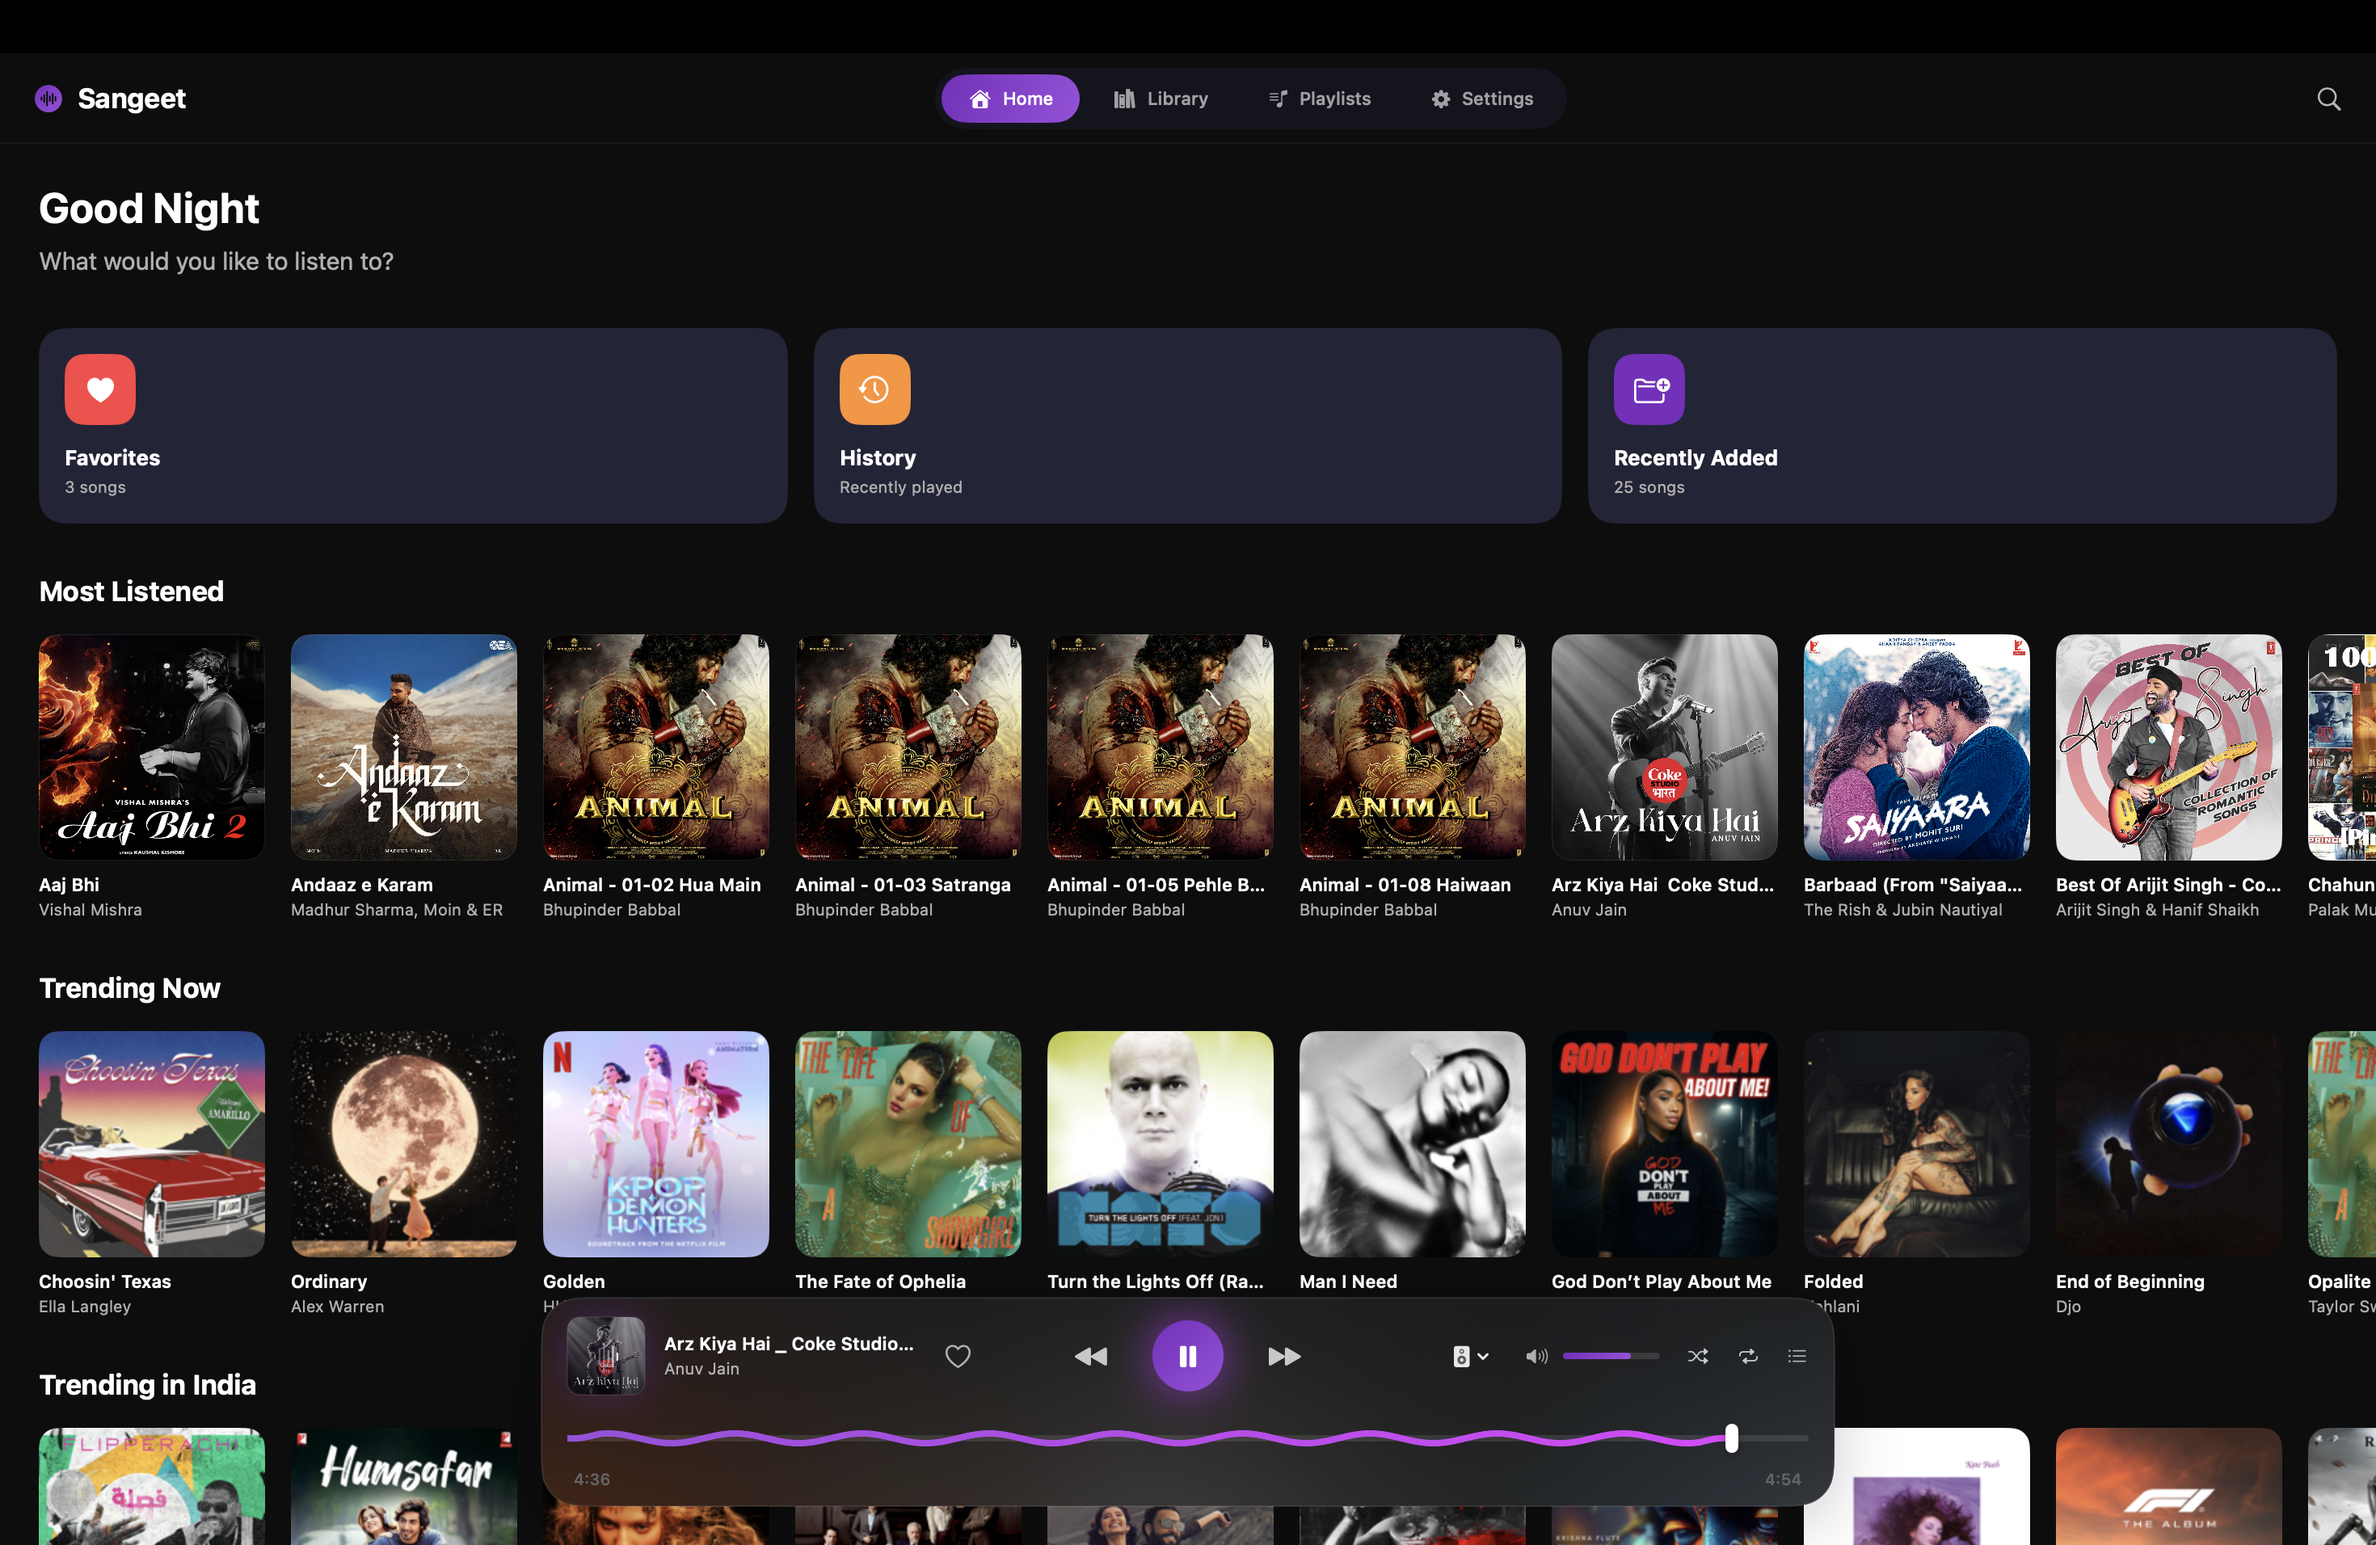
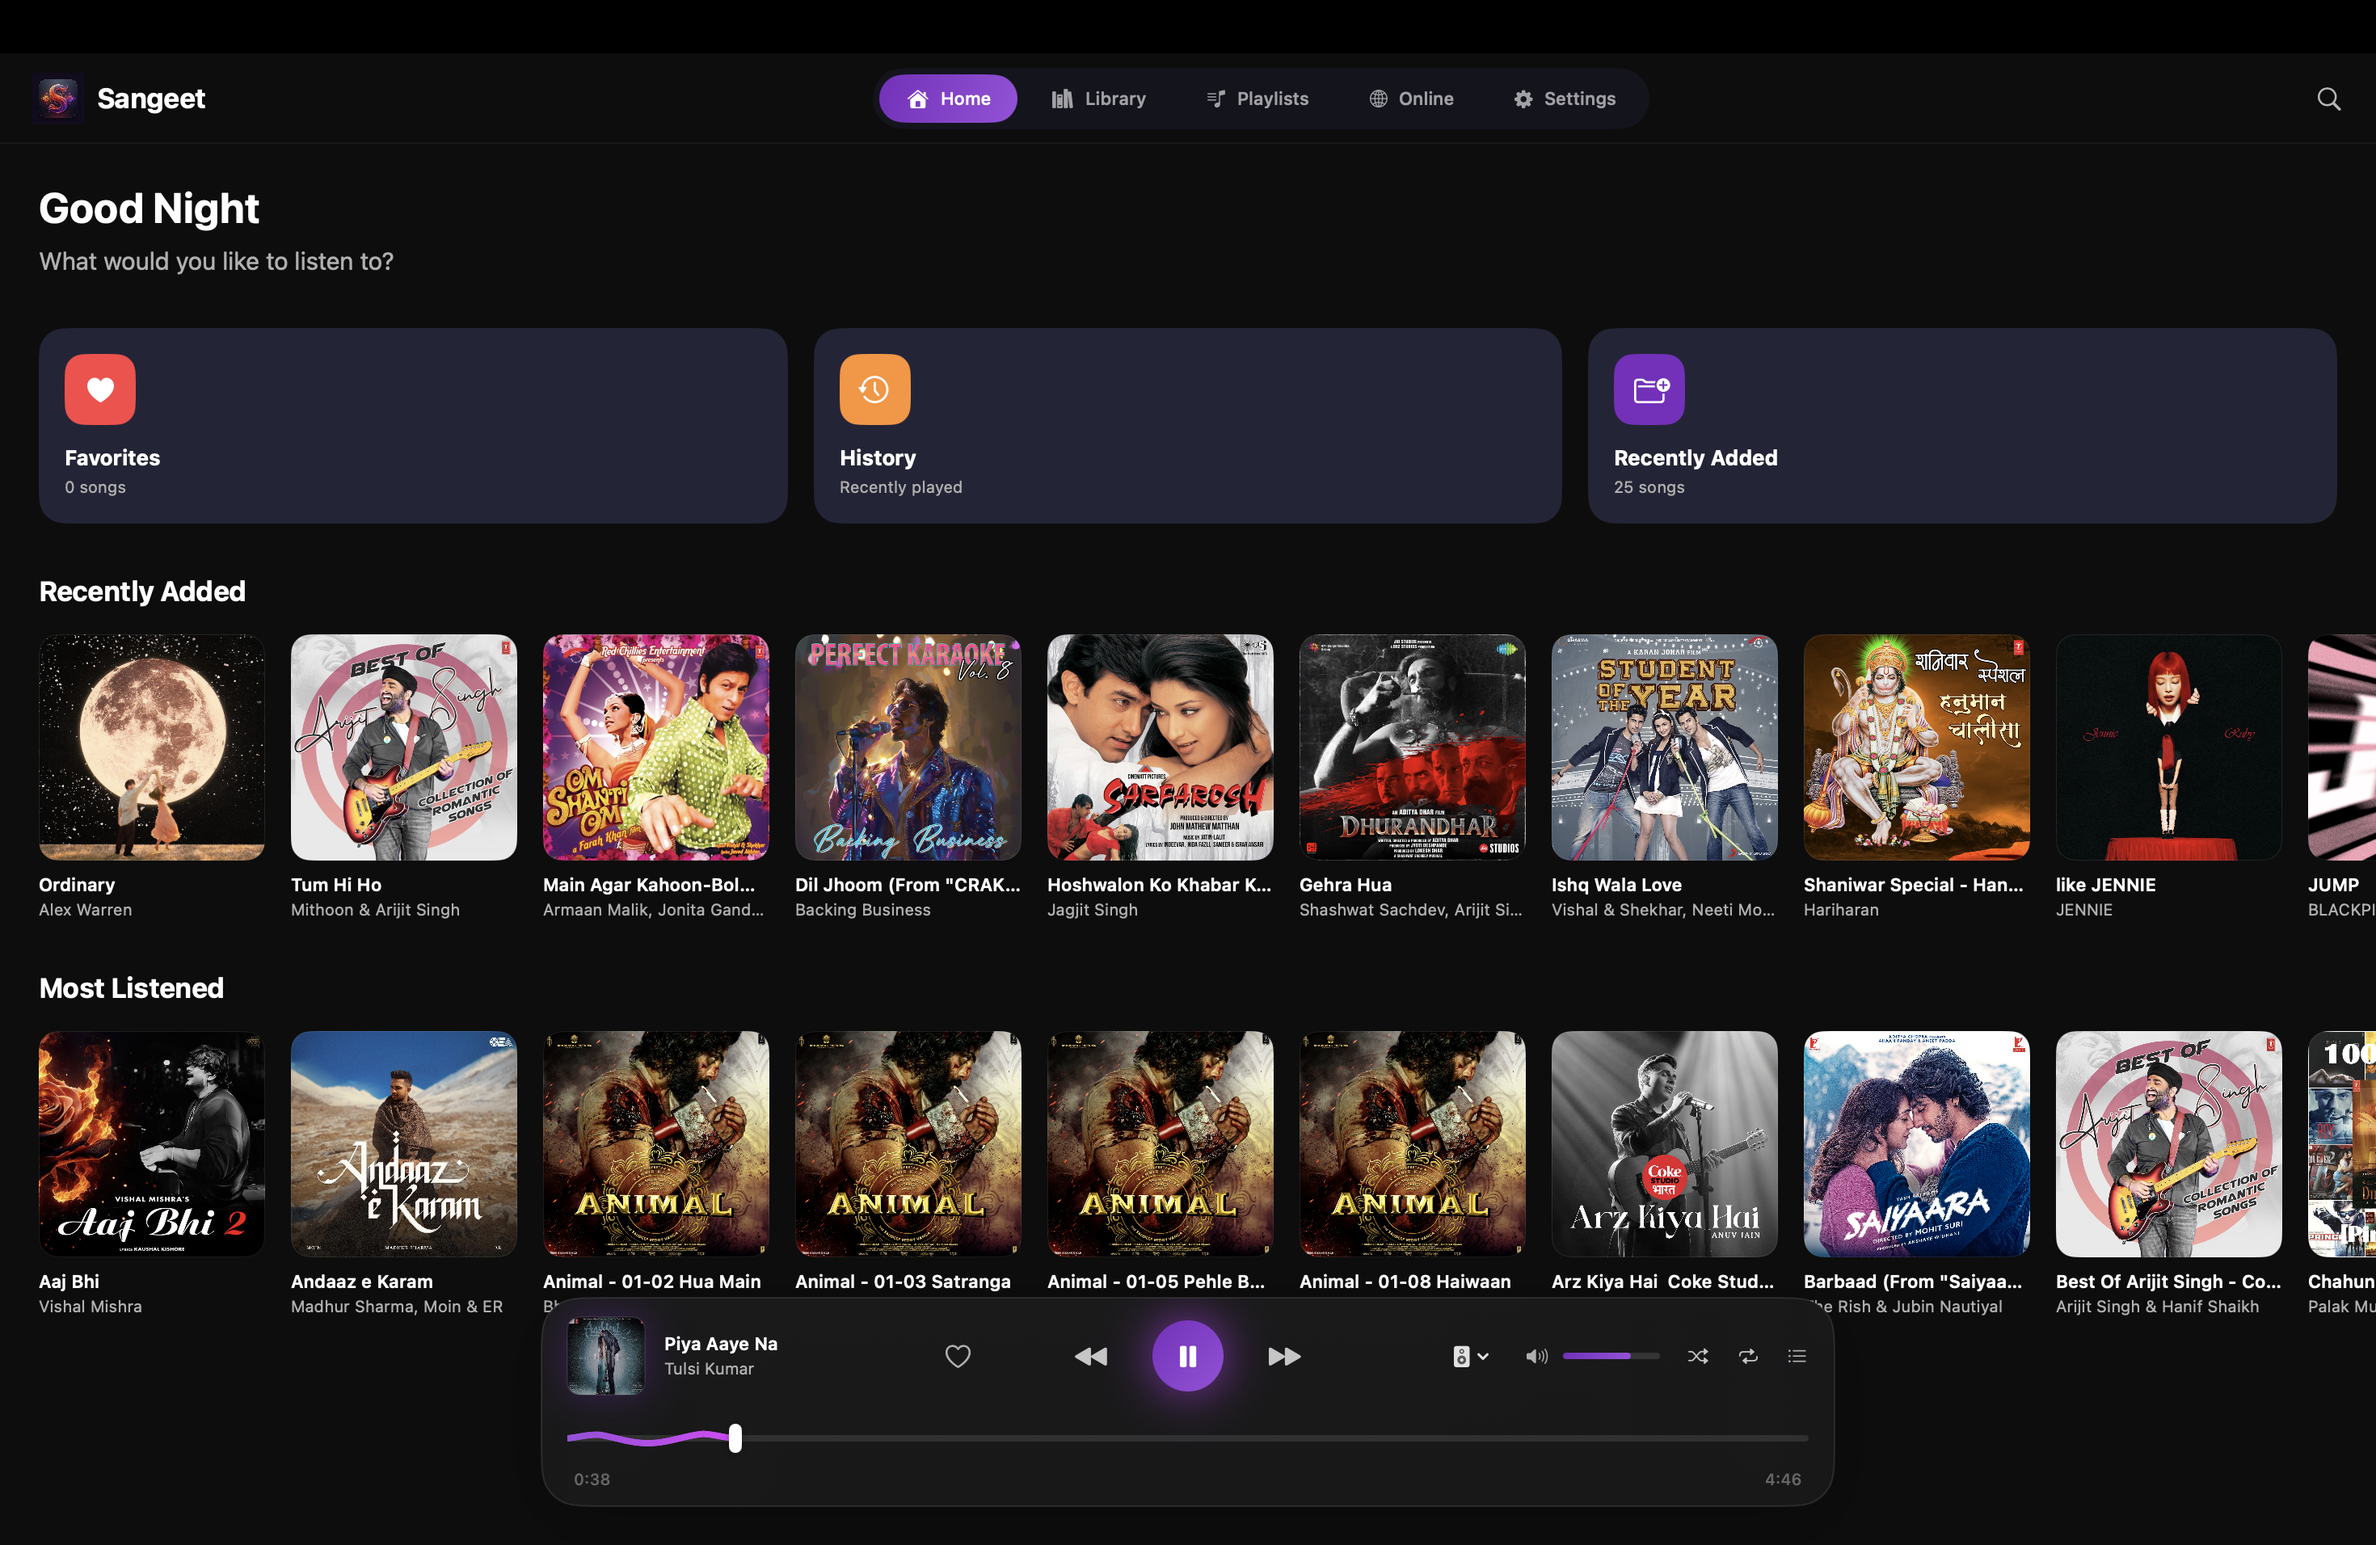
Add Online streaming feature and update screenshots

diff --git a/README.md b/README.md
@@ -31,6 +31,12 @@ Sangeet is a premium, native macOS music player built for audiophiles who demand
 - **Infinite Queue**: Never stops playing music, automatically queuing similar tracks when your playlist ends.
 - **Stats & History**: Track your listening habits with detailed statistics.
 
+### 🌐 Online Streaming
+- **Tidal Integration**: Search and stream high-quality music from Tidal's catalog directly within the app.
+- **Trending Charts**: Browse trending songs from iTunes charts (International & India).
+- **Download Support**: Save online tracks to your local library for offline playback.
+- **Seamless Playback**: Stream with the same audiophile-grade engine as local files.
+
 ---
 
 ## 📸 Screenshots
@@ -43,9 +49,10 @@ Sangeet is a premium, native macOS music player built for audiophiles who demand
 |:---:|:---:|
 | ![Songs](Screenshots/songs_screen.png) <br> ![Playlists](Screenshots/playlists_screen.png) | ![Queue](Screenshots/queue_screen.png) <br> ![EQ](Screenshots/eq_screen.png) |
 
-| Artist Grid & Metadata | Settings & Mini Player |
+| Online Streaming | Settings & Extras |
 |:---:|:---:|
-| ![Artist Grid](Screenshots/artist_grid.png) <br> ![Metadata](Screenshots/metadata.png) | ![Settings](Screenshots/settings.png) <br> *(Floating Dock)* |
+| ![Online](Screenshots/online.png) | ![Settings](Screenshots/settings.png) <br> ![Metadata](Screenshots/metadata.png) |
+
 
 ---
 
@@ -79,10 +86,12 @@ Sangeet is a premium, native macOS music player built for audiophiles who demand
 
 ## 🙌 Acknowledgements
 
-Special thanks to the creators of the libraries that make Sangeet possible:
+Special thanks to the creators of the libraries and services that make Sangeet possible:
 
 - **[Un4seen Developments](https://www.un4seen.com/)**: For the incredible **BASS Audio Library**, which powers the core audio engine, DSP, and gapless playback features.
 - **[Gwendal Roué](https://github.com/groue)**: For **GRDB.swift**, the robust SQLite toolkit that handles the music library database.
+- **[Tidal](https://tidal.com/)**: For providing high-quality music streaming capabilities.
+- **[Apple iTunes](https://rss.applemarketingtools.com/)**: For the RSS Feed API powering trending charts.
 - **Apple**: For SwiftUI and CoreAudio.
 
 ---
